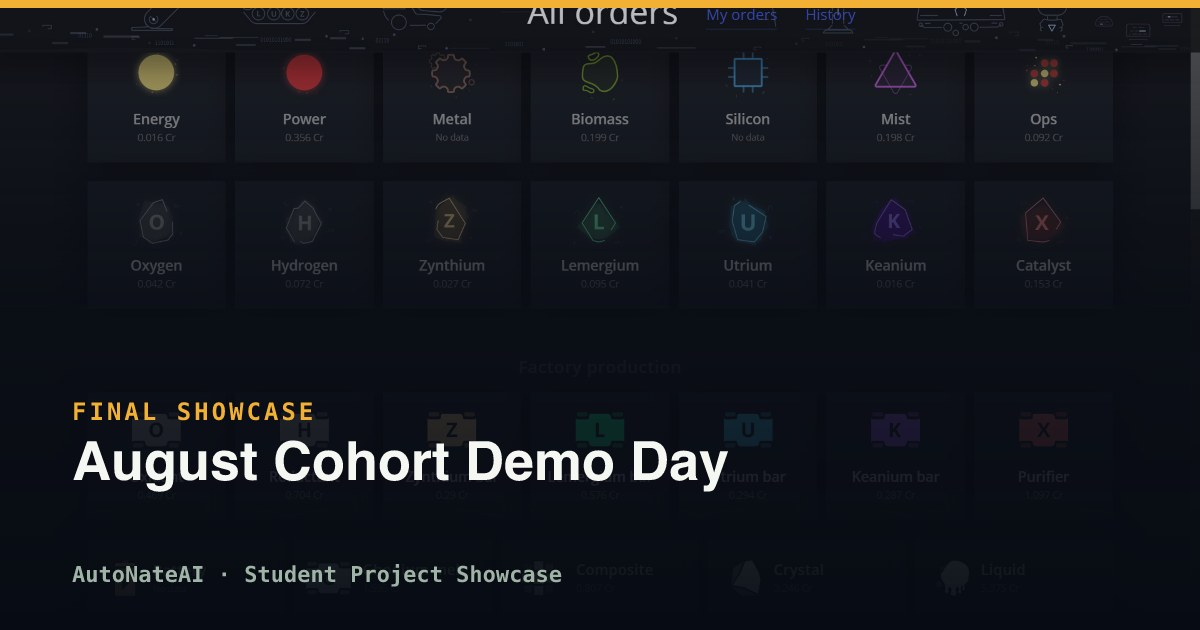
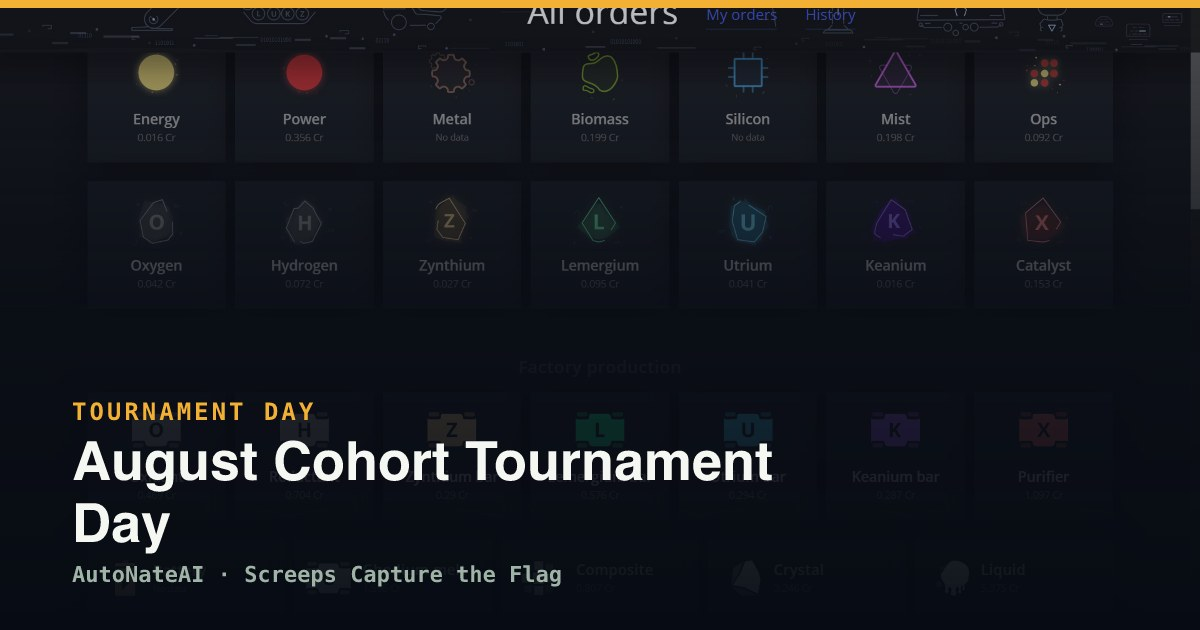
Position Screeps capstone as tournament day

diff --git a/apps/marketplace/public/styles.css b/apps/marketplace/public/styles.css
@@ -421,6 +421,10 @@ h1 {
   font-weight: 700;
 }
 
+.section-head a.primary-button {
+  color: var(--on-primary);
+}
+
 .badge-strip {
   display: flex;
   align-items: center;